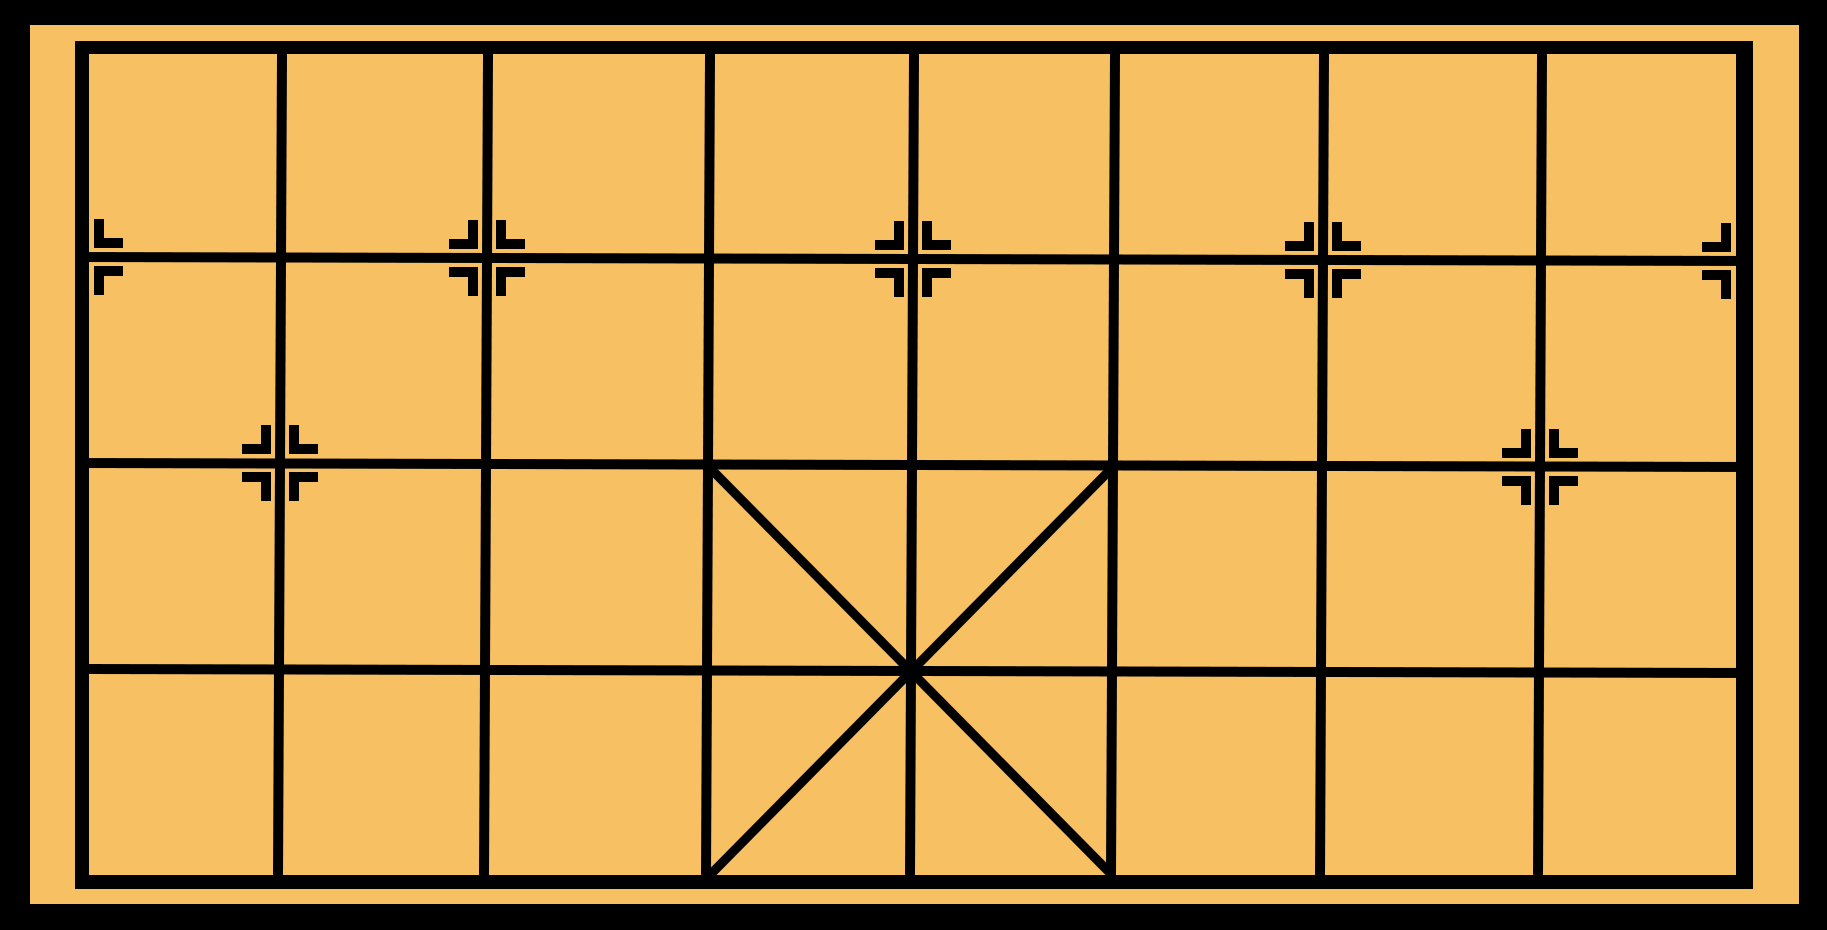
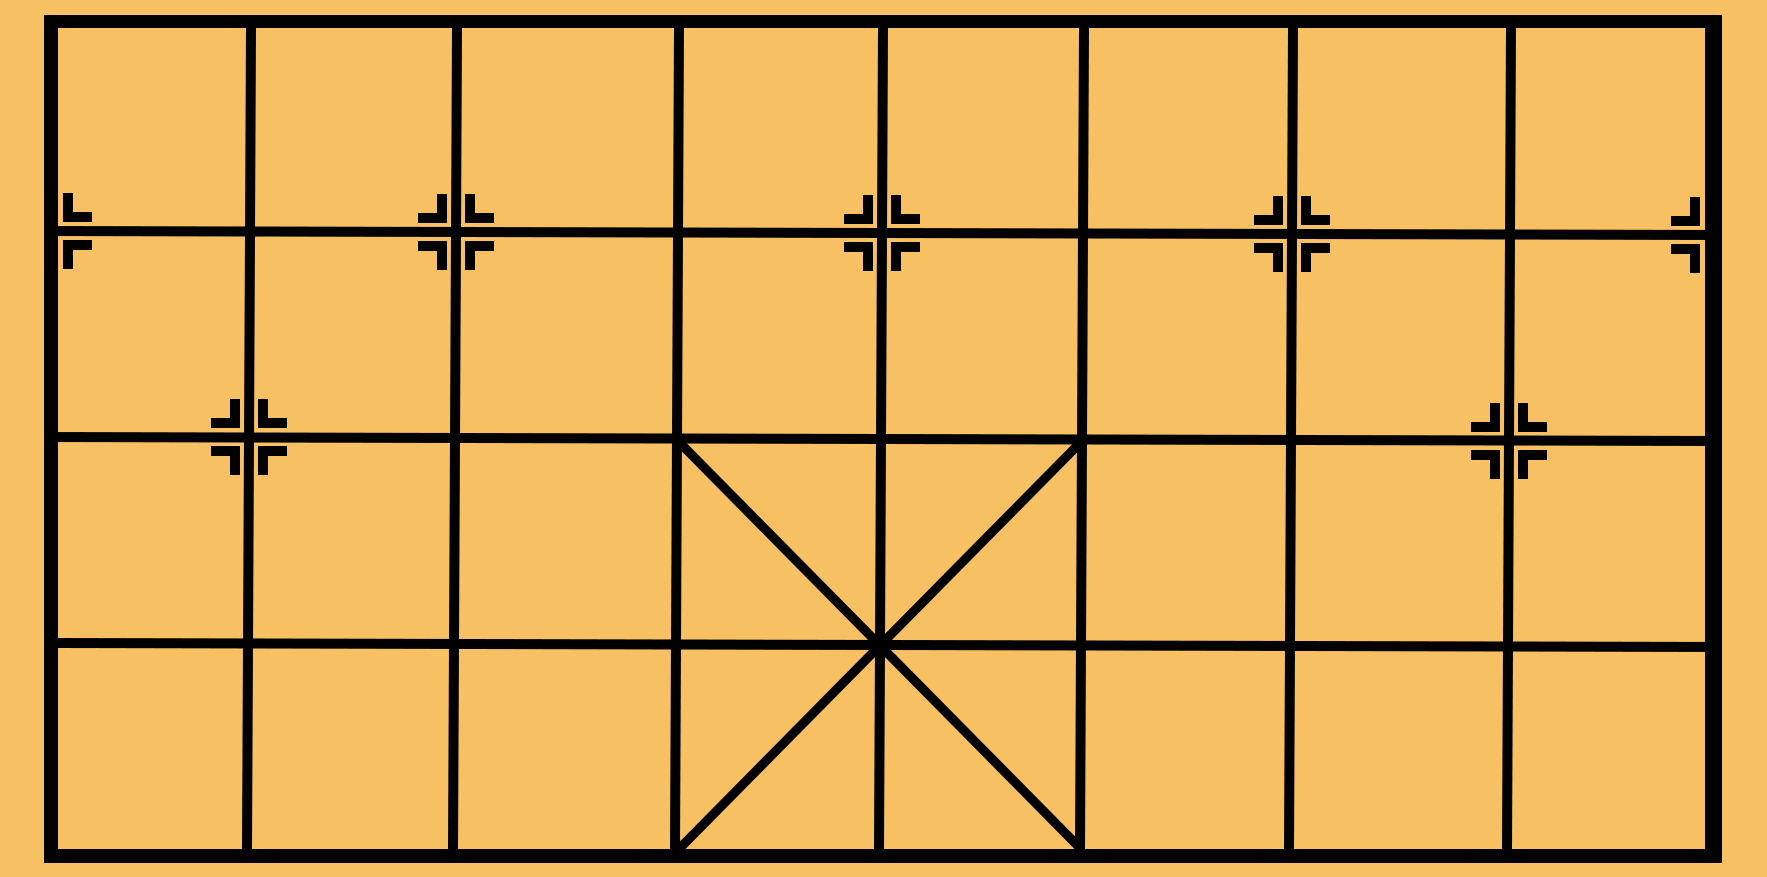
add background image

Changed region(s): [[0.0, 0.0, 1.0, 1.0]]

diff --git a/pages/rooms/[id].tsx b/pages/rooms/[id].tsx
@@ -28,6 +28,7 @@ import dynamic from 'next/dynamic';
 import { isLoginSelector, userInfoSelector } from 'selectors/appSelector';
 import { setShowLoginModal } from 'actions/AppAction';
 import { Send } from '@material-ui/icons';
+import GameSetting from 'components/rooms/GameSetting';
 
 const DynamicGameScreenWithNoSSR = dynamic(
   () => import('components/rooms/GameScreen'),
@@ -170,7 +171,9 @@ const Rooms = () => {
         </Grid>
         <Grid item lg={3} xs={3}>
           <div className={`${styles.block} ${styles.rightArea}`}>
-            <div className={`${styles.content} ${styles.settings}`}>123</div>
+            <div className={`${styles.content} ${styles.settings}`}>
+              <GameSetting gamePack={roomInfo.gamePack} />
+            </div>
             {isMaster() ? (
               <Button
                 variant="contained"

diff --git a/features/chinese_chess/scenes/mode/hidden/Hidden.ts b/features/chinese_chess/scenes/mode/hidden/Hidden.ts
@@ -46,6 +46,7 @@ export default class Hidden extends Phaser.Scene {
   }
 
   preload() {
+    this.load.image('background', '/chinese_chess/background.jpeg');
     this.load.image('map', '/chinese_chess/map/hidden_mode.png');
     this.load.atlas(
       'chess',
@@ -72,6 +73,9 @@ export default class Hidden extends Phaser.Scene {
     }
 
     const { width, height } = this.scale;
+    const bg = this.add.image(innerWidth / 2, innerHeight / 2, 'background');
+    bg.setDisplaySize(innerWidth, innerHeight);
+
     const map = this.add.image(width * 0.5, height * 0.5, 'map');
     map.setScale(0.75);
     chineseChesses.forEach((chess) => {

diff --git a/server/room/commands/PlayerLeftCommand.ts b/server/room/commands/PlayerLeftCommand.ts
@@ -23,6 +23,7 @@ export default class PlayerLeftCommand extends Command<RoomState> {
 
     if (!hasMaster) {
       this.room.state.players[0].isMaster = true;
+      this.room.state.players[0].isReady = true;
     }
 
     // 重新指派所有玩家 成員

diff --git a/components/rooms/GameSetting.tsx b/components/rooms/GameSetting.tsx
@@ -1,0 +1,11 @@
+import { GameList } from 'models/Game';
+
+type GameSettingProps = {
+  gamePack: GameList | '';
+};
+
+const GameSetting = (props: GameSettingProps) => {
+  return <div>123456</div>;
+};
+
+export default GameSetting;
